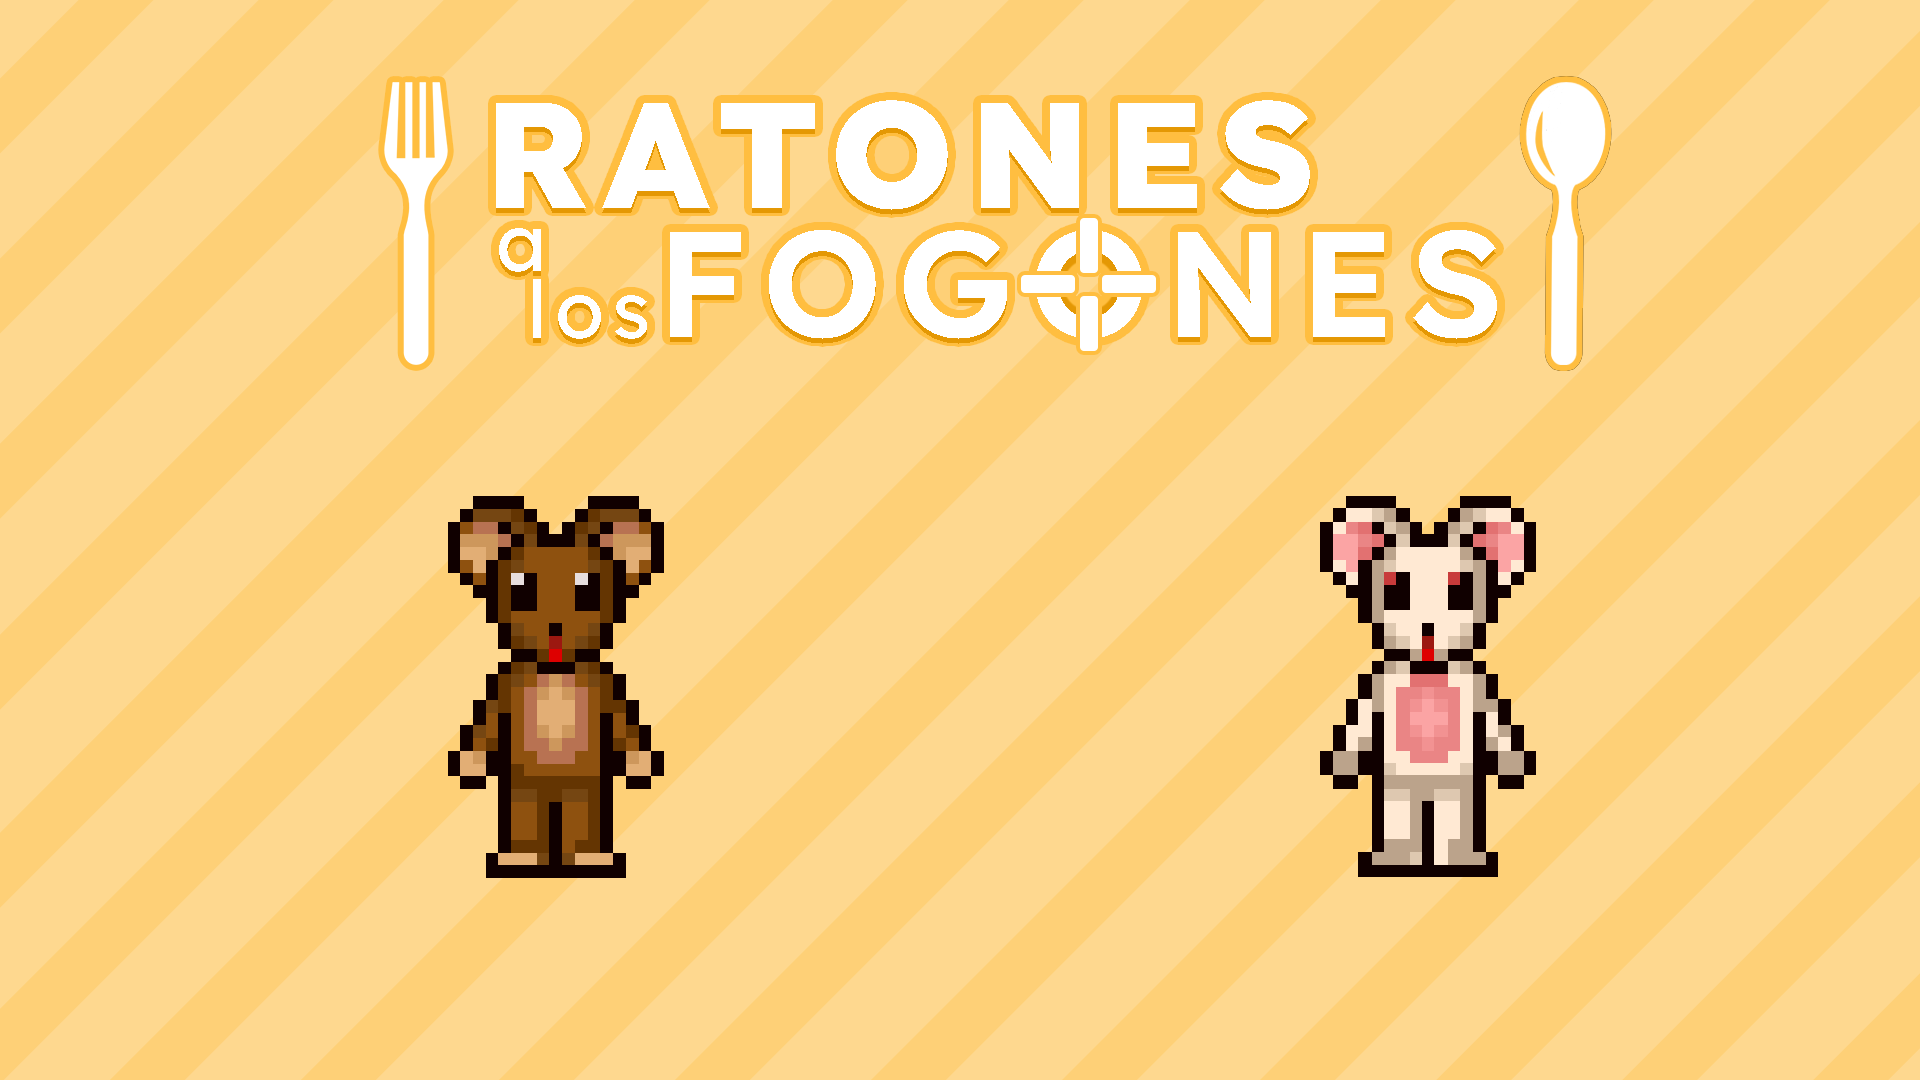
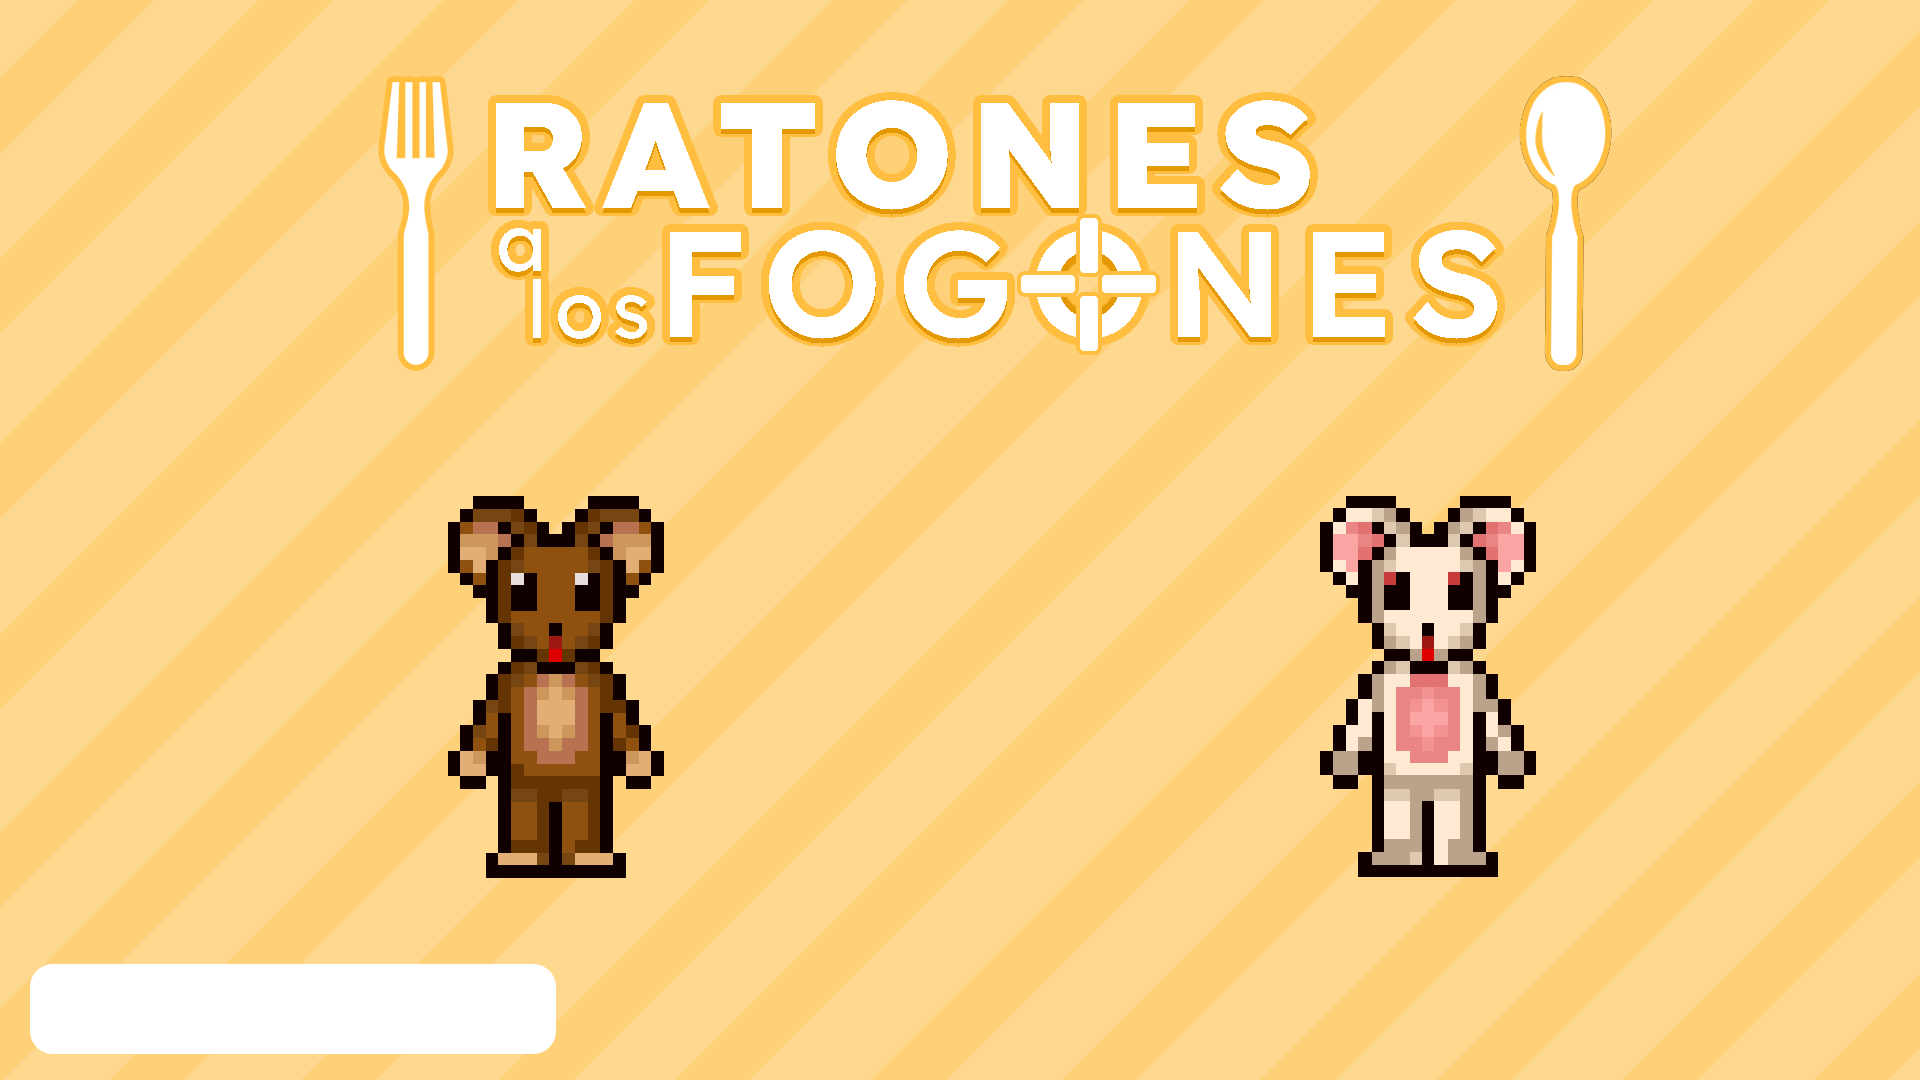
Arreglos Carpetas Red

Changed region(s): [[0.0, 0.8861, 0.3125, 0.9778]]

diff --git a/RatonesALosFogones_Red/src/main/resources/static/src/LoadingScene.js b/RatonesALosFogones_Red/src/main/resources/static/src/LoadingScene.js
@@ -143,7 +143,7 @@ class LoadingScene extends Phaser.Scene {
 
     create(){
         this.sound.play('MenuMusic', {loop:true});
-        this.scene.start("Menu");
+        this.scene.start("LoginScene");
     }
 
 
